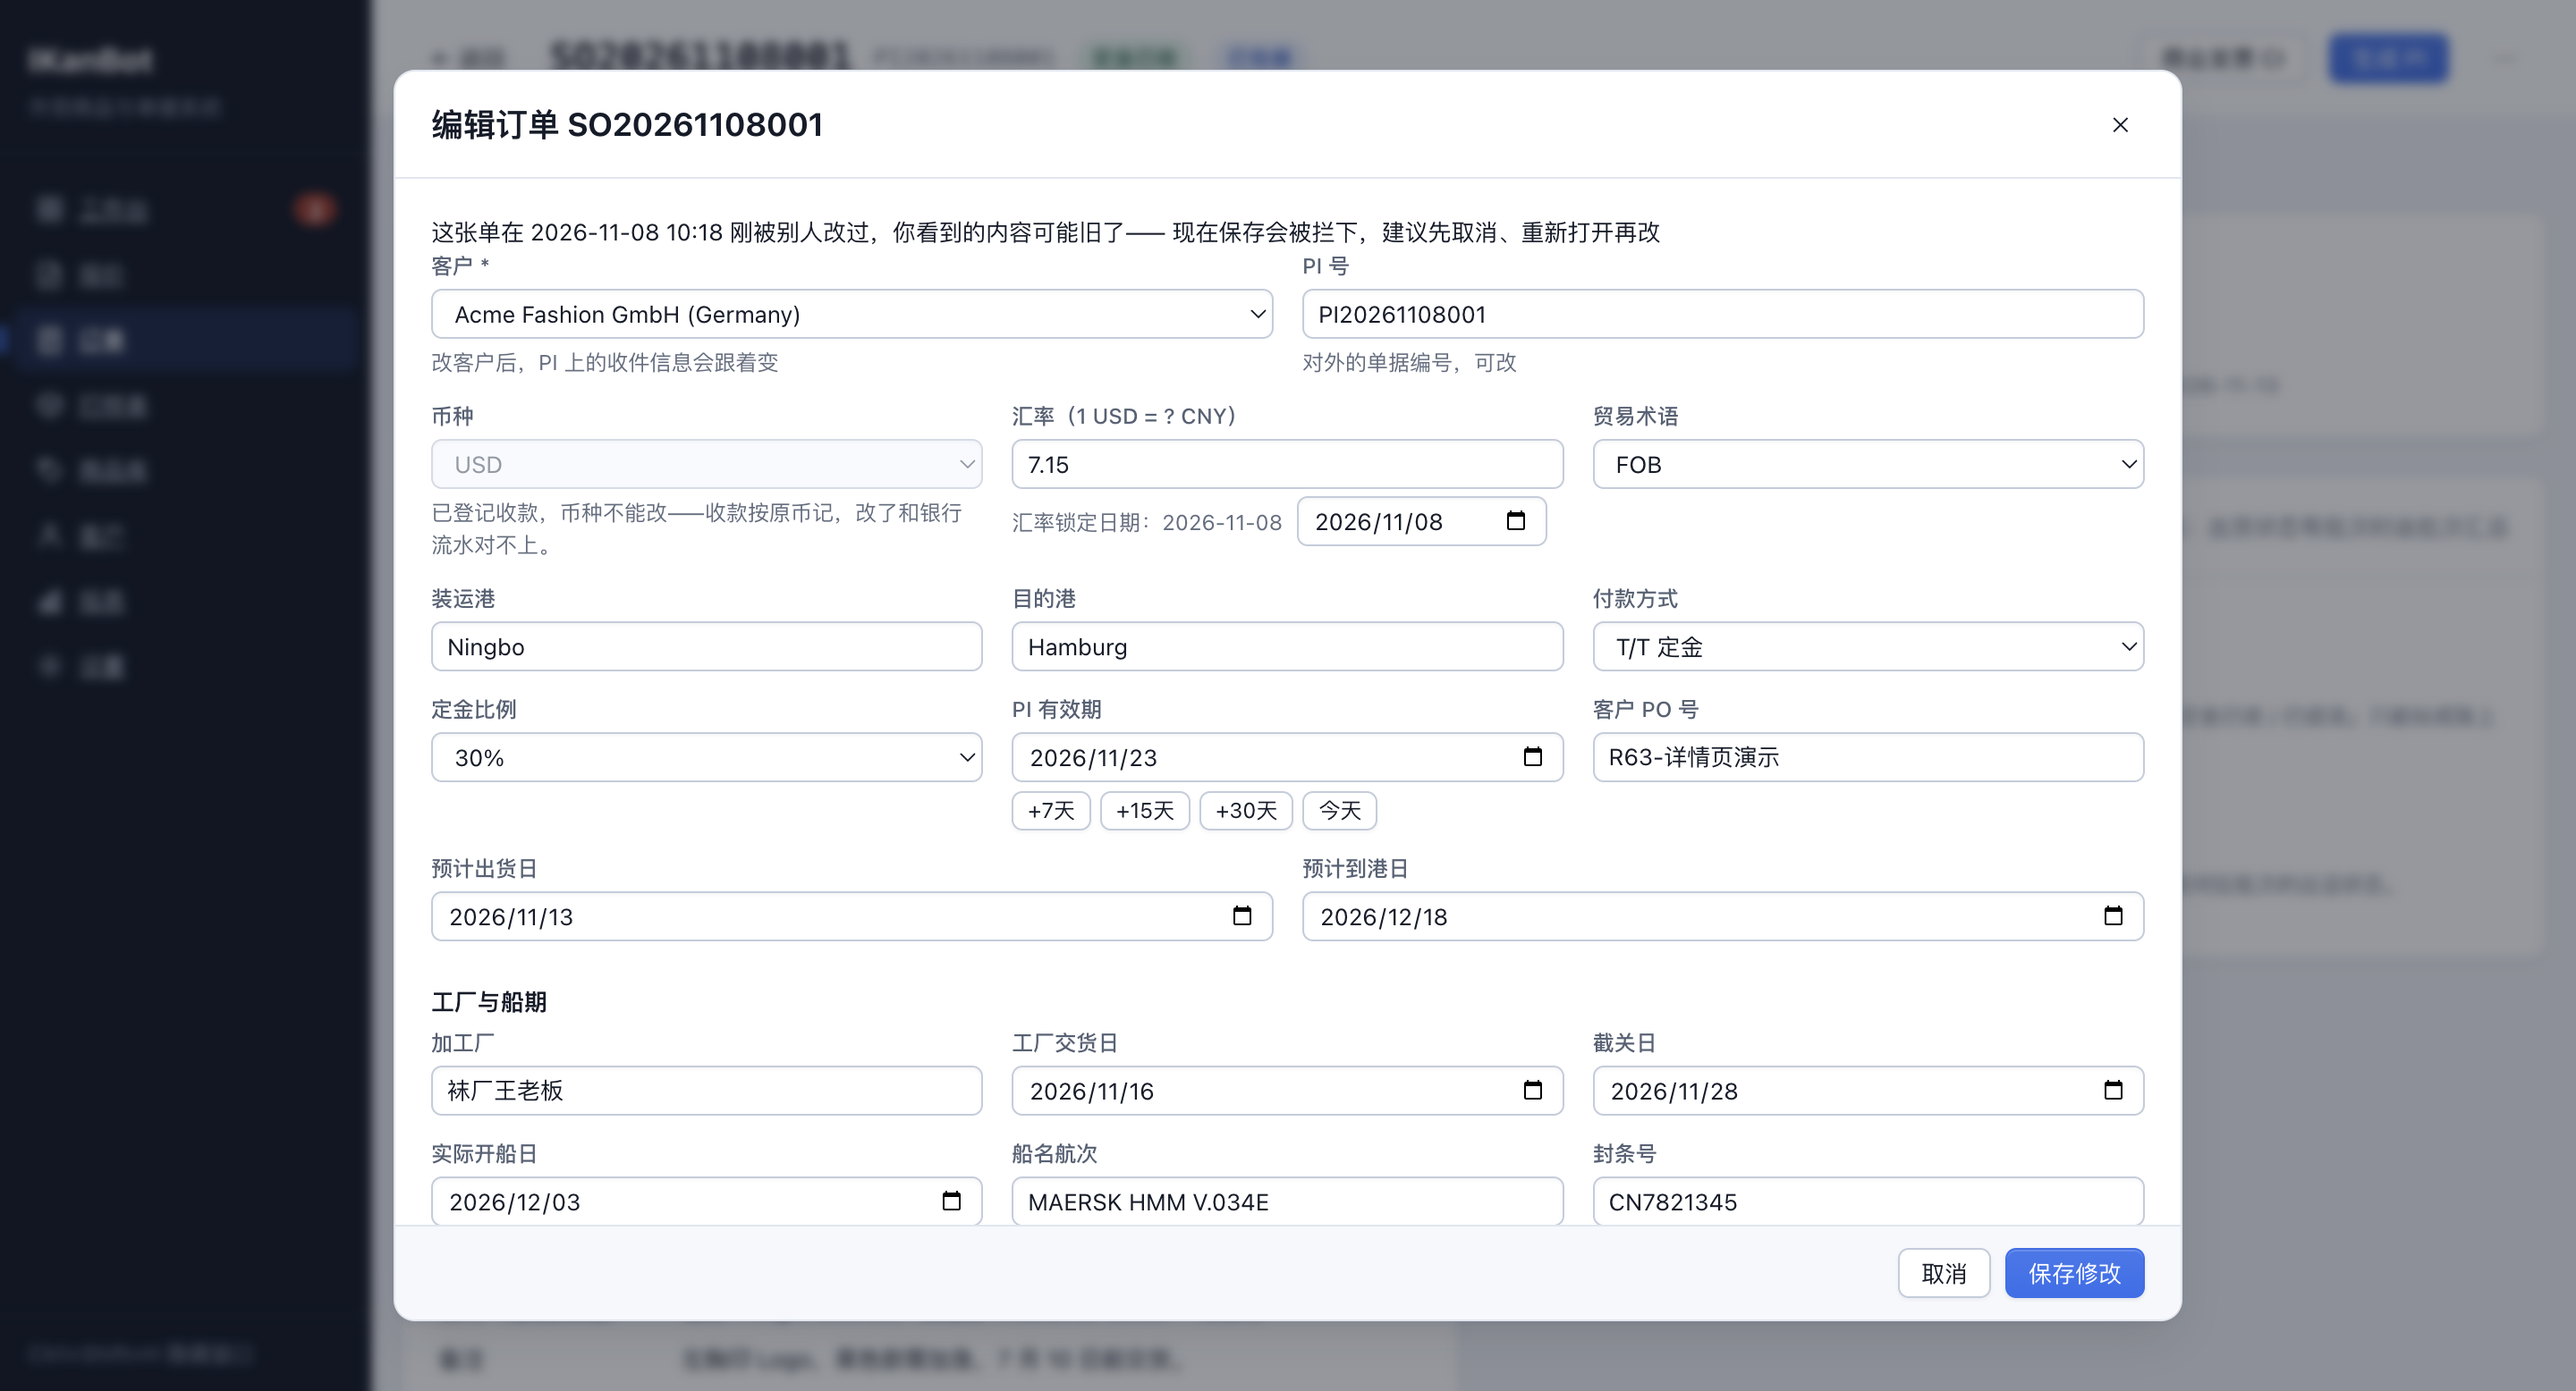
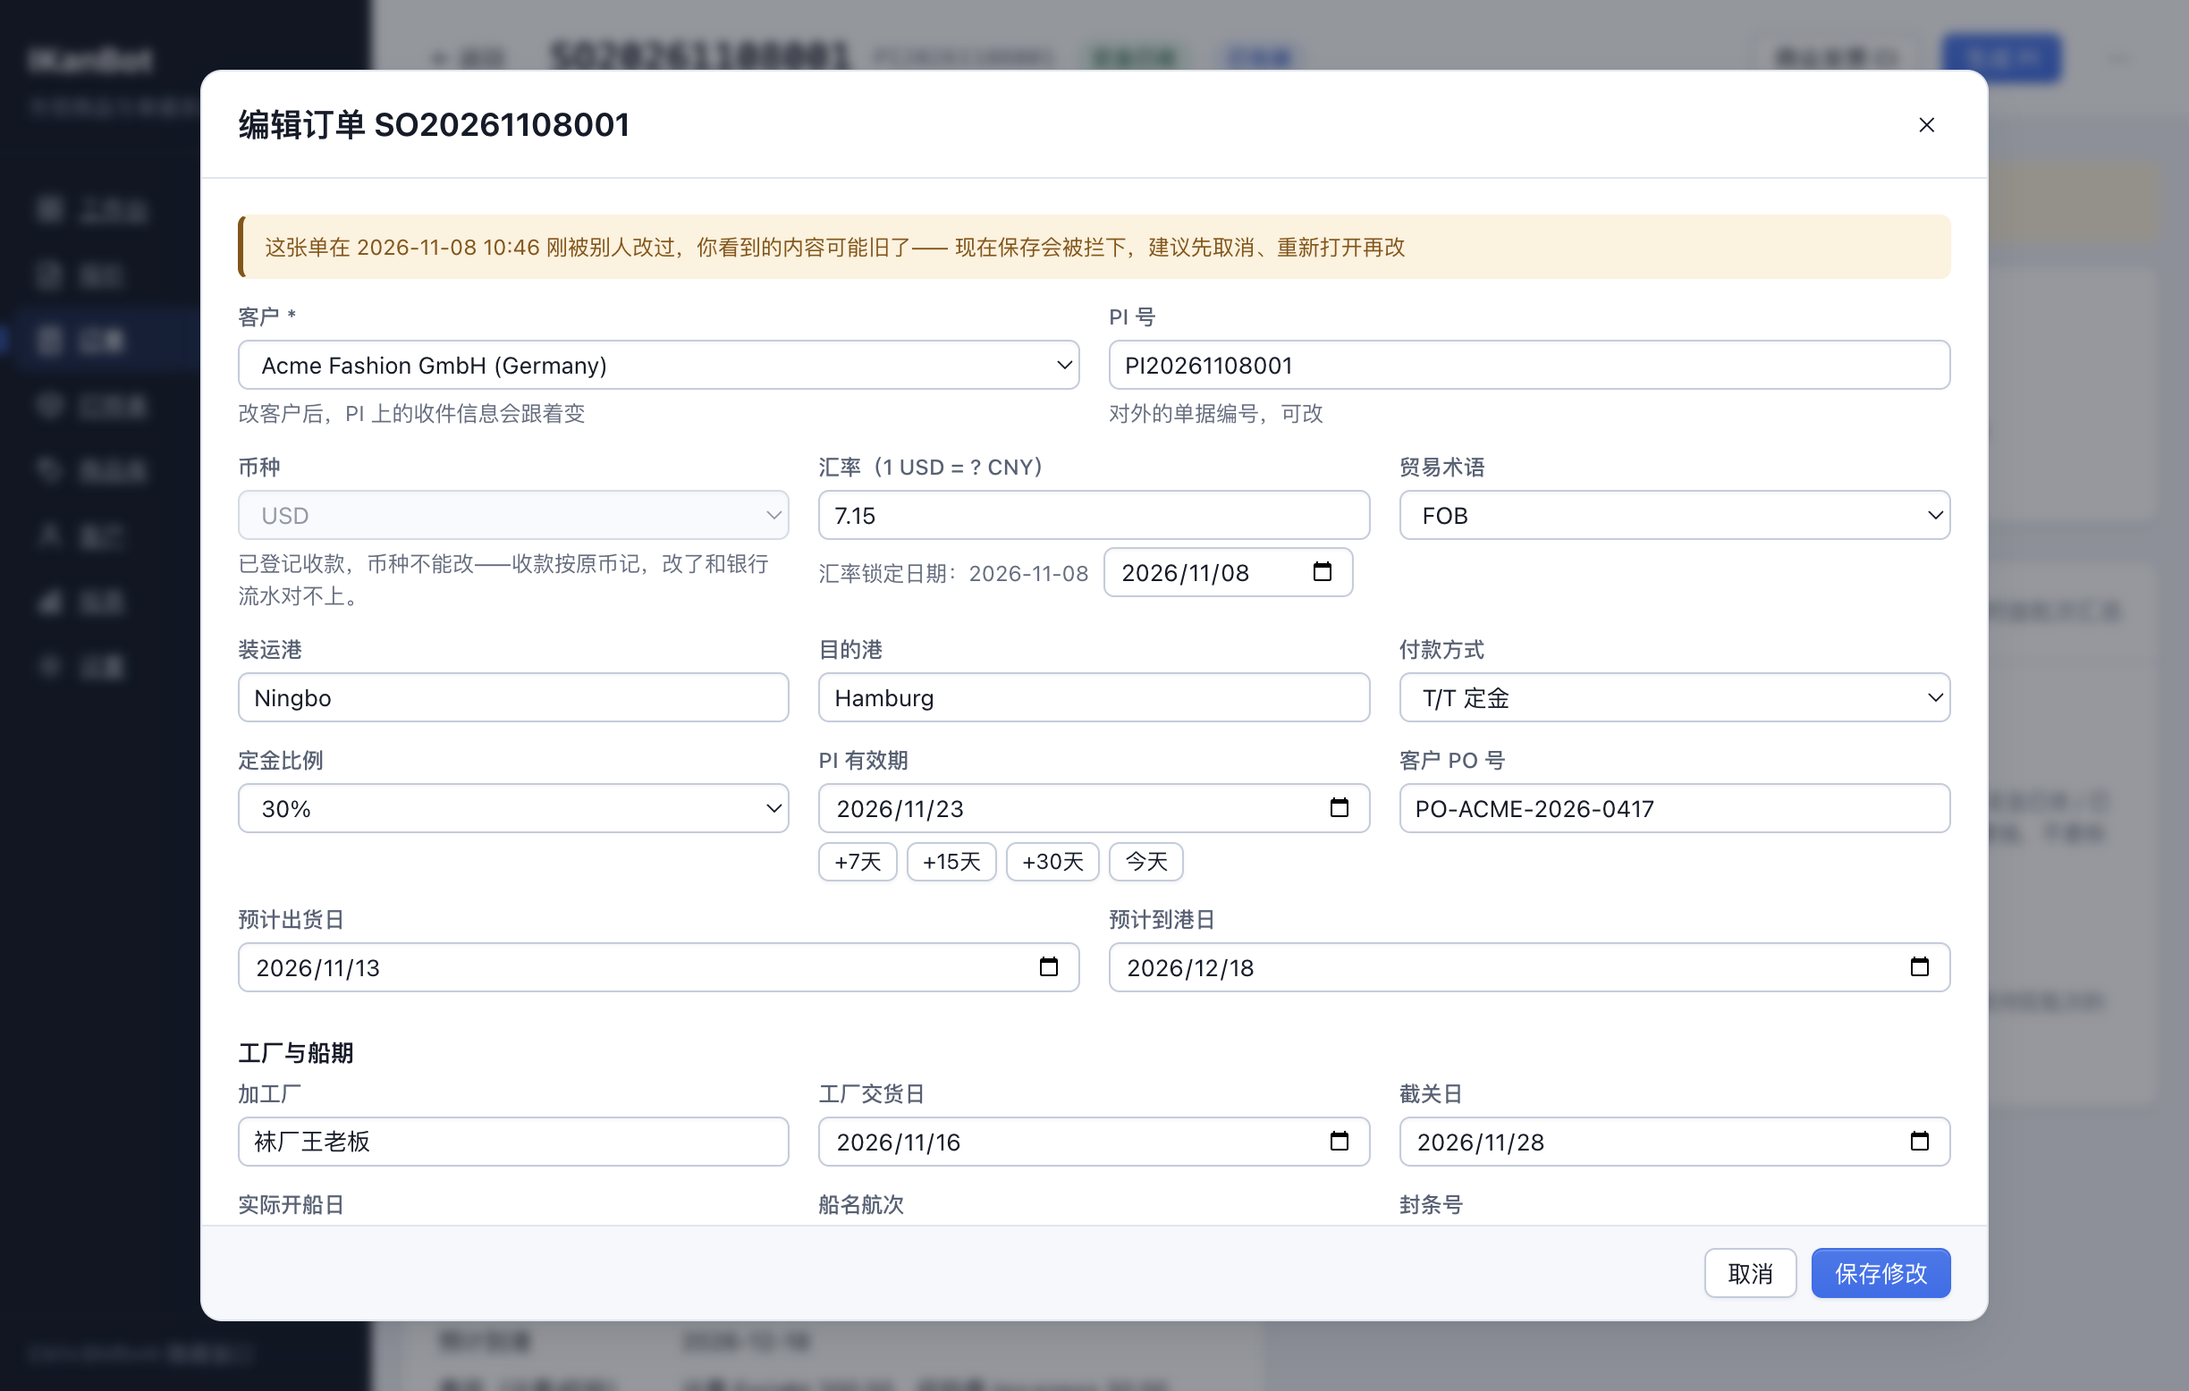
fix(ui): 复验还账两条——弱提示条按 .alert 样式做出可见形态 + 详情页截图对一次摆拍重拍
- .stale-hint 纯 --warning-soft 底在弹窗白底上几乎看不见（复验员实锤「裸文本」）：
  补 1px 描边 + 左 3px 重条，软黄底弱提示一眼可辨
- 根因顺带查明并修死：早前样式隔离实验 git checkout styles.css 把首轮 .stale-hint
  丢在了工作区之外，入库的 7 张截图全是裸文本条；本轮样式进构建产物后七张全部重拍
  （数据重置自 seed，详情页两张用同一个改动摆拍，PO 值前后连贯）

diff --git a/src/renderer/src/styles.css b/src/renderer/src/styles.css
@@ -675,6 +675,28 @@ label {
   color: var(--danger);
 }
 
+/* 弱提示条（M4 第二片 R63）：「有人正在改」——不弹窗不拦操作，刷新快照后整条消失。
+   按 .alert 的样子做软黄底 + 左边 3px 重条：复验还账——纯 --warning-soft 底在弹窗白底上
+   几乎看不见，弱提示也得让人一眼找得到 */
+.stale-hint {
+  display: flex;
+  align-items: center;
+  gap: var(--space-2);
+  margin-bottom: var(--space-3);
+  padding: var(--space-2) var(--space-3);
+  border-radius: var(--radius-md);
+  background: var(--warning-soft);
+  color: var(--warning);
+  border: 1px solid var(--warning-soft);
+  border-left: 3px solid var(--warning);
+  font-size: var(--text-sm);
+  line-height: 1.5;
+}
+
+.stale-hint .btn {
+  flex: none;
+}
+
 /* 数字输入框：右对齐 */
 .input.num,
 input.num {
